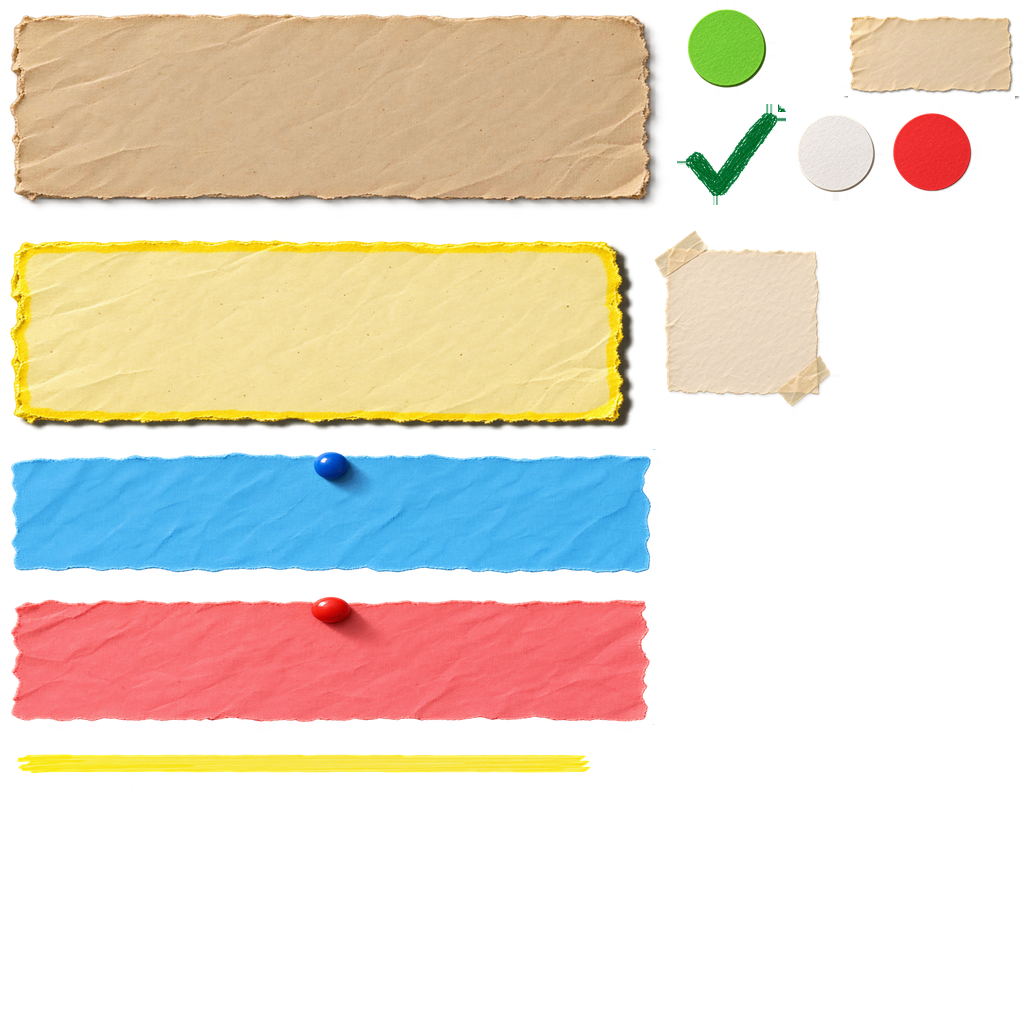
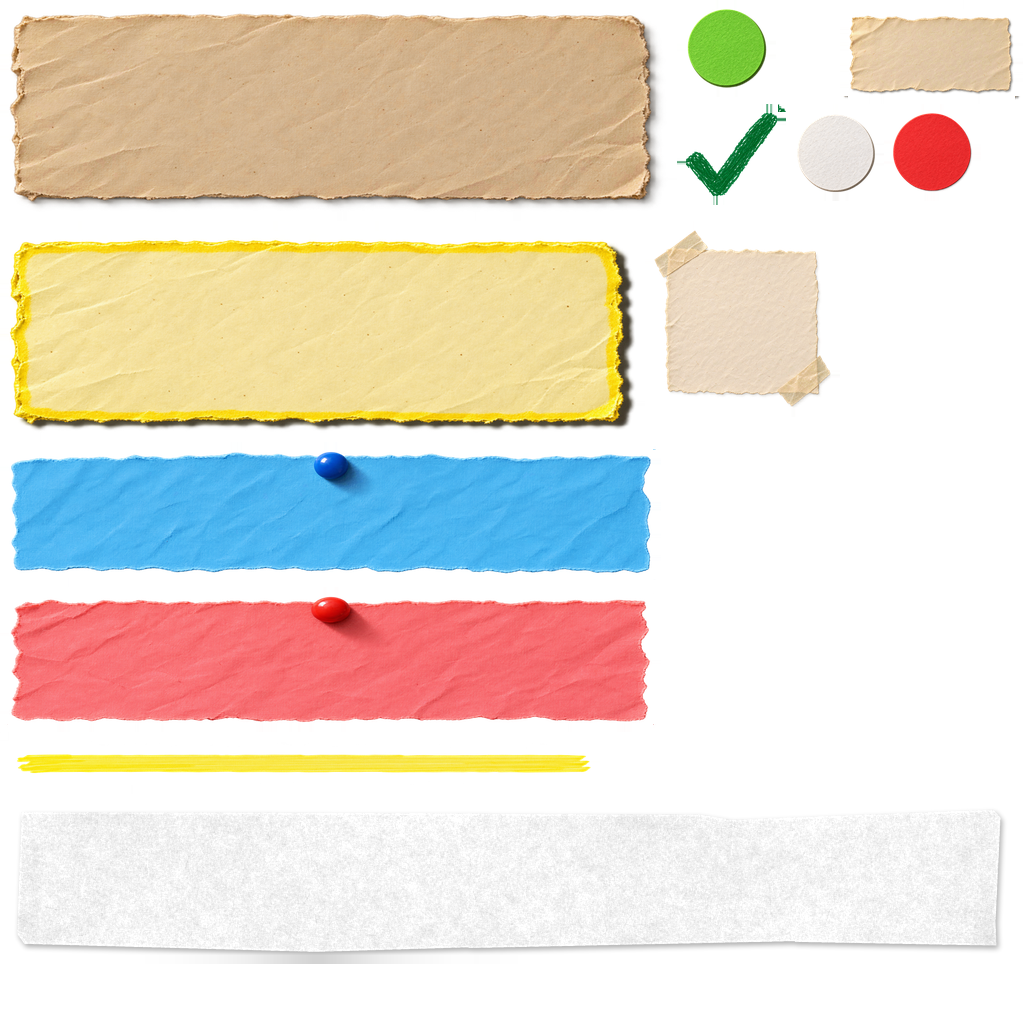
Missions cards: one white construction-paper card cut neatly with scissors, tinted by difficulty, packed into free space on a menu sheet already loaded; bigger Daily/Weekly tabs; the gold star slams down with the mission note; the Missions screen draws its pictures the 3D way like the other menus
Main: 5e1e99661512f9a4f2981e4188a615ae651e4e60

Changed region(s): [[0.0312, 0.8125, 1.0, 0.9688]]

diff --git a/tools/art/cut_paper.py b/tools/art/cut_paper.py
@@ -1,0 +1,69 @@
+"""One white construction-paper card cut out neatly with scissors (Alan 2026-11-18: neat, clean, flat; a child cut it, so
+not perfect): long straight snips with tiny turns where they meet, now and then a small over-cut; fine paper grain and
+fibres, no crumples. White, so the game tints it (ImageColor3); its shadow is black, which a tint leaves black.
+    python tools/art/cut_paper.py assets/ui/mainmenu/ready/card-white.png 1004 154 47   (the Missions cards)"""
+import sys, numpy as np
+from PIL import Image, ImageDraw, ImageFilter
+out, W, H, seed = sys.argv[1], int(sys.argv[2]), int(sys.argv[3]), int(sys.argv[4])
+rng = np.random.default_rng(seed)
+SS, M = 4, 7  # supersampling; margin for the shadow
+def edge(a, b, n_min, n_max, wobble):
+    """Points from a to b in a few straight snips, each turning a little from the last."""
+    a, b = np.array(a, float), np.array(b, float)
+    n = rng.integers(n_min, n_max + 1)
+    cuts = np.sort(rng.uniform(0.12, 0.88, n - 1)) if n > 1 else np.array([])
+    ts = np.concatenate([[0], cuts, [1]])
+    d = b - a; normal = np.array([-d[1], d[0]]) / np.linalg.norm(d)
+    offs = np.concatenate([[0], rng.normal(0, wobble, n - 1), [0]])
+    pts = []
+    for i, t in enumerate(ts):
+        p = a + d * t + normal * offs[i]
+        if 0 < i < len(ts) - 1:
+            step = normal * rng.uniform(-1.5, 1.5)  # the next snip starts a hair off the last one
+            pts += [p, p + step]
+        else:
+            pts.append(p)
+    return pts
+# Corners a little off square; long edges in 4-7 snips, short ones in 1-2.
+c = [(M + rng.uniform(0, 9), M + rng.uniform(0, 4)), (W - M - rng.uniform(0, 9), M + rng.uniform(0, 4)),
+     (W - M - rng.uniform(0, 9), H - M - 2 - rng.uniform(0, 4)), (M + rng.uniform(0, 9), H - M - 2 - rng.uniform(0, 4))]
+poly = edge(c[0], c[1], 4, 6, 5) + edge(c[1], c[2], 1, 2, 1.5)[1:] + edge(c[2], c[3], 4, 6, 5)[1:] + edge(c[3], c[0], 1, 2, 1.5)[1:-1]
+# Two corners snipped off at an angle, the way scissors round a corner in one cut.
+for k in rng.choice(4, 2, replace=False):
+    i = int(np.argmin([(q[0] - c[k][0]) ** 2 + (q[1] - c[k][1]) ** 2 for q in poly]))
+    a = np.array(poly[i - 1]) - np.array(poly[i]); b = np.array(poly[(i + 1) % len(poly)]) - np.array(poly[i])
+    cut = rng.uniform(4, 8)
+    poly[i:i + 1] = [tuple(np.array(poly[i]) + a / np.linalg.norm(a) * cut), tuple(np.array(poly[i]) + b / np.linalg.norm(b) * cut * rng.uniform(0.7, 1.3))]
+mask = Image.new("L", (W * SS, H * SS), 0)
+ImageDraw.Draw(mask).polygon([(x * SS, y * SS) for x, y in poly], fill=255)
+# Two small over-cuts: where a snip went a little too far into the paper.
+d = ImageDraw.Draw(mask)
+for _ in range(2):
+    top = rng.random() < 0.5
+    x = rng.uniform(0.15, 0.85) * W
+    y = (M + 1.5) if top else (H - M - 3.5)
+    depth = rng.uniform(2.5, 4) * (1 if top else -1)
+    d.polygon([((x - 4) * SS, y * SS), ((x + 3) * SS, (y + depth * 0.3) * SS), ((x + 6) * SS, (y + depth) * SS), ((x + 5) * SS, y * SS)], fill=0)
+mask = np.asarray(mask.resize((W, H), Image.LANCZOS)).astype(float) / 255
+# Construction paper: flat, matte, fine grain and short fibres, a faint blotchiness; no folds.
+def noise(sigma, amp):
+    n = Image.fromarray(((rng.standard_normal((H, W)) * 40) + 128).clip(0, 255).astype(np.uint8)).filter(ImageFilter.GaussianBlur(sigma))
+    n = np.asarray(n).astype(float) - 128
+    return n / (n.std() + 1e-6) * amp
+v = 246 + noise(0.6, 5.5) + noise(3, 2.4) + noise(30, 2.6)
+fib = Image.new("L", (W, H), 128); fd = ImageDraw.Draw(fib)
+for _ in range(W * H // 500):
+    x, y, a, L = rng.uniform(0, W), rng.uniform(0, H), rng.uniform(0, np.pi), rng.uniform(4, 14)
+    fd.line([(x, y), (x + np.cos(a) * L, y + np.sin(a) * L)], fill=int(128 + rng.choice([-1, 1, 1]) * rng.uniform(10, 22)), width=1)
+v += (np.asarray(fib.filter(ImageFilter.GaussianBlur(0.5))).astype(float) - 128) * 0.8
+# The cut edge catches a little light (a thin lighter rim).
+inner = np.asarray(Image.fromarray((mask * 255).astype(np.uint8)).filter(ImageFilter.MinFilter(5))).astype(float) / 255
+v += (mask - inner).clip(0, 1) * 9
+# Soft black shadow down and to the right, under the paper.
+sh = Image.fromarray((mask * 255).astype(np.uint8)).transform((W, H), Image.AFFINE, (1, 0, -2, 0, 1, -3)).filter(ImageFilter.GaussianBlur(2.5))
+sh = np.asarray(sh).astype(float) / 255 * 0.32
+alpha = mask + sh * (1 - mask)
+rgb = np.where(alpha > 0, v * mask / np.maximum(alpha, 1e-6), 0)  # the paper's colour where it covers; the shadow black
+img = np.dstack([rgb.clip(0, 255)] * 3 + [alpha * 255]).astype(np.uint8)
+Image.fromarray(img, "RGBA").save(out)
+print(out, W, "x", H)

diff --git a/docs/workshop/tools.md b/docs/workshop/tools.md
@@ -88,6 +88,7 @@ Every script in `tools/`, what it does and when you'd run it. Commands for Alan 
 | `blocks.py` | Blender-built town buildings (replan v3): one function per building, hero-piece output for `town_toys.py hero` |
 | `materials.py` | Separates toy-town materials from baked colour sheets |
 | `closeups.py` | Close-up render sheet to catch defects before upload |
+| `cut_paper.py` | Not Blender: one white construction-paper card cut neatly with scissors (straight snips, snipped corners, paper grain, black shadow), for tinting in the game (the Missions cards) |
 | `square_from_strip.py` | Not Blender: cuts a little torn square from a menu strip's plain middle (the notes' red X box) |
 | `unlock_pieces.py` | Not Blender: the unlock backpack's upload pictures from `assets/ui/unlock/source` (12 unzip frames that gape like a real zipper, the sheet's corner tapes cut out, a cream button) and the numbers `UnlockMoment.luau` needs |
 | `widen_paper.py` | Not Blender: makes a ruled paper wider by repeating plain bands on both sides of its tape, lines kept continuous (the Hangar stats paper) |
